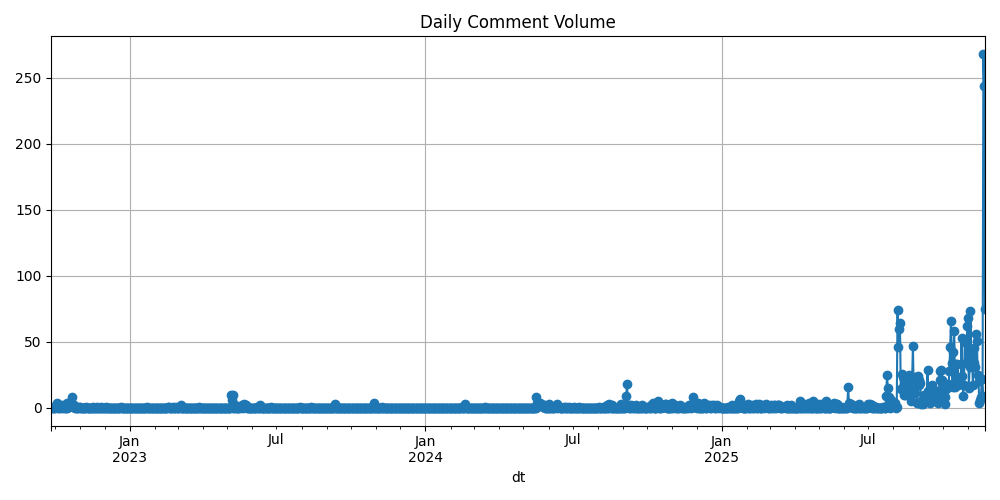
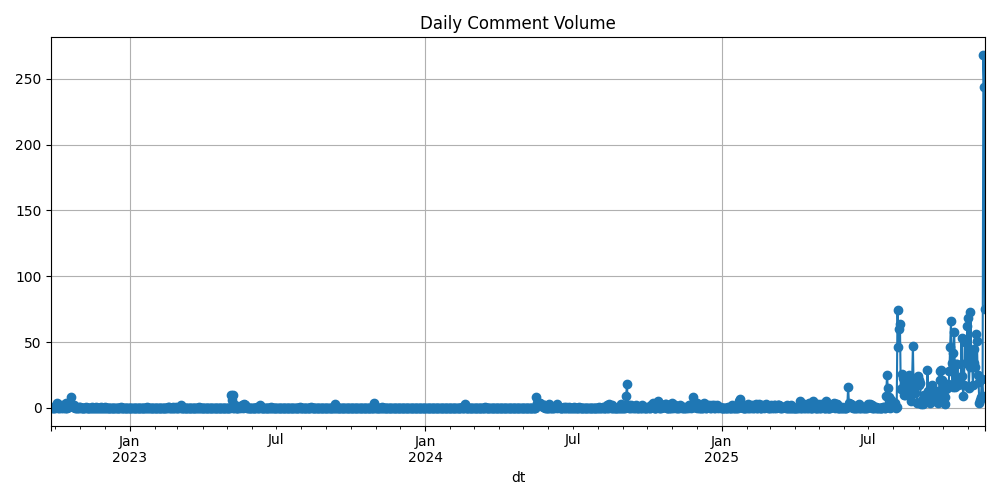
Final UI Fix: deepened gray metrics and removed sidebar analysis button

diff --git a/sample_app.py b/sample_app.py
@@ -1,6 +1,7 @@
 import streamlit as st
 import os
 import pandas as pd
+import json
 from dotenv import load_dotenv
 
 # 引入后端模块
@@ -12,18 +13,18 @@ load_dotenv()
 
 # --- 1. 页面配置 ---
 st.set_page_config(
-    page_title="InsightFoundry AI",
-    page_icon="🛡",
+    page_title="InsightFoundry AI", 
+    page_icon="🛡", 
     layout="wide",
     initial_sidebar_state="expanded"
 )
 
-# --- 2. 深度 UI 定制 (样式美化核心) ---
+# --- 2. 深度 UI 定制 (针对灰色调进行加重) ---
 st.markdown("""
 <style>
     /* 解决左边栏间距问题 */
     [data-testid="stSidebarNav"] { padding-top: 0rem; }
-    .sidebar-title { margin-top: -30px; font-weight: bold; color: #1f3a93; }
+    .sidebar-title { margin-top: -30px; font-weight: bold; color: #1f3a93; font-size: 1.2rem; }
 
     /* 页面大标题居中放大 */
     .main-title {
@@ -36,18 +37,18 @@ st.markdown("""
     }
     .sub-title {
         text-align: center;
-        color: #64748B;
+        color: #475569; /* 加深副标题灰色 */
         font-size: 1.2rem;
         margin-bottom: 2rem;
     }
 
-    /* 指标卡片美化：增加淡色背景与边框 */
+    /* 指标卡片美化：加重背景与边框的灰色 */
     [data-testid="stMetric"] {
-        background-color: #f8fafc;
-        border: 1px solid #e2e8f0;
+        background-color: #f1f5f9; /* 加深背景：从 #f8fafc 改为 #f1f5f9 */
+        border: 1px solid #cbd5e1; /* 加深边框：从 #e2e8f0 改为 #cbd5e1 */
         padding: 15px 20px;
         border-radius: 12px;
-        box-shadow: 0 2px 4px rgba(0,0,0,0.02);
+        box-shadow: 0 2px 4px rgba(0,0,0,0.05);
     }
 
     /* 指标数值加粗与间距压缩 */
@@ -57,11 +58,12 @@ st.markdown("""
         line-height: 1.1 !important;
         color: #0f172a !important;
     }
+    
+    /* 加深指标标签颜色 */
     [data-testid="stMetricLabel"] {
-        margin-bottom: -12px !important; /* 压缩标签与数字的垂直间距 */
-        font-size: 0.95rem !important;
-        color: #64748b !important;
-        font-weight: 500 !important;
+        margin-bottom: -15px !important;
+        font-size: 1rem !important;
+        color: #475569 !important; /* 加深文字：从 #64748b 改为 #475569 */
     }
 </style>
 """, unsafe_allow_html=True)
@@ -72,18 +74,21 @@ def main():
 
     # --- 3. 侧边栏：配置与搜索 ---
     with st.sidebar:
-        st.markdown('<p class="sidebar-title">🛡 InsightFoundry</p>', unsafe_allow_html=True)
+        # 🛡 蓝色盾牌图标与标题
+        st.markdown('<p class="sidebar-title">🛡 Data Configuration</p>', unsafe_allow_html=True)
         st.caption("SC6117 Capstone Project")
         
         if api_key: st.success("✅ API Connected")
         else: st.error("❌ API Missing")
         
         st.divider()
-        st.subheader("📂 Market Data")
+        
+        # 数据集选择逻辑
         data_dir = "data"
+        output_dir = "output"
         try:
             all_files = [f for f in os.listdir(data_dir) if f.endswith('.csv') and 'comments' in f]
-            search_query = st.text_input("🔍 Search Product", placeholder="例如：大疆...")
+            search_query = st.text_input("🔍 Search Product", placeholder="输入产品关键词...")
             filtered_files = [f for f in all_files if search_query.lower() in f.lower()]
             
             if filtered_files:
@@ -91,121 +96,100 @@ def main():
                 comments_file = selected_file
                 contents_file = selected_file.replace('comments', 'contents')
             else:
-                st.warning("No matches found")
+                st.warning("No data found.")
                 st.stop()
         except Exception as e:
-            st.error(f"Error loading data dir: {e}")
+            st.error(f"Data directory error: {e}")
             st.stop()
 
     # --- 4. 页面中心标题 ---
     st.markdown('<h1 class="main-title">InsightFoundry AI</h1>', unsafe_allow_html=True)
     st.markdown('<p class="sub-title">Evidence-Based Startup Ideation & Market Grounding Engine</p>', unsafe_allow_html=True)
 
-    # --- 5. 数据准备 ---
+    # --- 5. 数据加载 ---
     loader = DataLoader(data_dir=data_dir)
     contents_df, comments_df = loader.load_data(comments_file, contents_file)
-    analyzer = Analyzer(comments_df)
-    pain_points = analyzer.get_pain_points(limit=20)
-    stats = analyzer.get_stats()
+    
+    # 加载分析结果
+    report_path = os.path.join(output_dir, "analyzer.json")
+    if os.path.exists(report_path):
+        with open(report_path, 'r', encoding='utf-8') as f:
+            report_data = json.load(f)
+        key_findings = report_data.get('key_findings', [])
+        total_voices = report_data.get('total_comments', len(comments_df))
+    else:
+        key_findings = []
+        total_voices = len(comments_df)
 
     # --- 6. 标签页设计 ---
     tab_insight, tab_generator = st.tabs([
-        "📊 Market Insights (Grounding)", 
+        "📊 Market Insights", 
         "💡 Founder AI Assistant"
     ])
 
-    # === TAB 1: 市场洞察页 ===
+    # === TAB 1: 市场洞察 ===
     with tab_insight:
-        # 指标展示：应用了卡片背景和加粗样式
+        # 指标展示：已加深灰色调
         c1, c2, c3 = st.columns(3)
-        with c1: st.metric("Total Voices Analyzed", stats['total_comments'])
-        with c2: st.metric("Unique Pain Points", len(pain_points))
-        with c3: st.metric("Validation Engagement", f"{sum([p['likes'] for p in pain_points])} 👍")
+        with c1: st.metric("Total Voices Analyzed", total_voices)
+        with c2: st.metric("Unique Pain Points", len(key_findings) if key_findings else "Pending")
+        with c3: st.metric("User Engagement", f"{comments_df['like_count'].sum()} 👍")
         
         st.divider()
 
-        # 左右布局
         col_viz, col_data = st.columns([1.2, 1], gap="large")
 
         with col_viz:
-            st.markdown("### 🎨 Market Sentiment Analysis")
-            st.info("🎨 [ECharts 占位] 此处将展示雷达图 (维度得分)")
-            st.info("☁ [WordCloud 占位] 此处将展示词云图 (高频吐槽词)")
+            st.markdown("### 📈 Visualized Trends")
+            trend_img = os.path.join(output_dir, "daily_comment_trend.png")
+            loc_img = os.path.join(output_dir, "top_locations.png")
             
-            st.markdown("""
-                <div style="height: 350px; background-color: #f8fafc; border: 2px dashed #cbd5e1; border-radius: 15px; display: flex; align-items: center; justify-content: center; color: #94a3b8; font-style: italic;">
-                    Data Visualization Module Integration
-                </div>
-            """, unsafe_allow_html=True)
+            if os.path.exists(trend_img):
+                st.image(trend_img, use_container_width=True)
+            if os.path.exists(loc_img):
+                st.image(loc_img, use_container_width=True)
+            else:
+                st.info("Market analysis visuals not found in output directory.")
 
         with col_data:
-            st.markdown("### 🔍 Evidence: User Voice")
-            sub_search = st.text_input("🔎 Filter keywords within comments", placeholder="搜索具体内容...")
-            
-            df_display = pd.DataFrame(pain_points)[['content', 'likes', 'user']]
-            if sub_search:
-                df_display = df_display[df_display['content'].str.contains(sub_search, case=False)]
-            
-            st.dataframe(
-                df_display,
-                column_config={
-                    "content": st.column_config.TextColumn("User Complaint", width="large"),
-                    "likes": st.column_config.NumberColumn("Likes", format="%d 👍")
-                },
-                use_container_width=True,
-                height=500
-            )
+            st.markdown("### 🔍 Key Findings (AI Extraction)")
+            if key_findings:
+                for finding in key_findings:
+                    with st.expander(f"🔴 {finding['aspect']} (Severity: {finding['sentiment_score']})"):
+                        st.write(f"**Summary:** {finding['summary']}")
+                        st.markdown("**Evidence (Top Comments):**")
+                        for comment in finding.get('top_representative_comments', []):
+                            st.caption(f"💬 \"{comment}\"")
+            else:
+                st.warning("No analysis report found. Ensure analyzer.py has run.")
 
-    # === TAB 2: AI 生成页 (Pitch Deck) ===
+    # === TAB 2: AI 生成器 ===
     with tab_generator:
         st.markdown("### 🤖 GenAI Founder Strategic Assistant")
         st.write("Generating a high-impact startup concept grounded in the validated facts.")
         
-        gen_col_left, gen_col_right = st.columns([1, 2], gap="medium")
+        gen_col_1, gen_col_2 = st.columns([1, 2], gap="medium")
         
-        with gen_col_left:
+        with gen_col_1:
             st.markdown("#### Action Center")
             if st.button("🚀 Run AI Ideation", type="primary", use_container_width=True):
                 if not api_key:
-                    st.error("Missing API Key")
+                    st.error("Please configure API Key in .env first.")
                 else:
                     with st.spinner("AI is analyzing market gaps..."):
                         gen = Generator()
-                        
-                        # --- 修复代码开始 ---
-                        # 检查当前 generator.py 到底支持哪个函数
-                        if hasattr(gen, 'generate_idea'):
-                            # 如果是旧版逻辑
-                            result = gen.generate_idea(pain_points)
-                        elif hasattr(gen, 'generate_pitch_from_json'):
-                            # 如果是新版 JSON 逻辑，但你现在只有 DataFrame
-                            # 暂时用一个简单的提示，或者引导它使用旧逻辑
-                            st.warning("Detection: New JSON-based Generator found. Reverting to compatibility mode...")
-                            # 强制定义一个临时兼容函数，或直接联系组员统一接口
-                            result = "Error: Generator interface mismatch. Please check generator.py function names."
-                        else:
-                            result = "Error: No valid generation method found in generator.py"
-                        # --- 修复代码结束 ---
-                        
+                        # 注意：此处优先使用 analyzer 提取的高质量 key_findings
+                        result = gen.generate_idea(key_findings if key_findings else [])
                         st.session_state['final_pitch'] = result
 
-        with gen_col_right:
+        with gen_col_2:
             if 'final_pitch' in st.session_state:
                 st.success("Targeted Business Concept Generated")
                 st.markdown(st.session_state['final_pitch'])
                 st.divider()
-                st.download_button(
-                    label="📥 Download Pitch Draft (.md)", 
-                    data=st.session_state['final_pitch'], 
-                    file_name="startup_plan.md"
-                )
+                st.download_button("📥 Download Pitch (.md)", st.session_state['final_pitch'], file_name="startup_plan.md")
             else:
-                st.markdown("""
-                <div style="height: 400px; display: flex; flex-direction: column; align-items: center; justify-content: center; color: #94a3b8; border: 1px solid #e2e8f0; border-radius: 15px;">
-                    <p style="font-size: 40px;">💡</p>
-                    <p>Ready to build? Click the button to generate your plan.</p>
-                </div>
-                """, unsafe_allow_html=True)
+                st.info("Click the button to generate your strategy.")
 
 if __name__ == "__main__":
     main()
